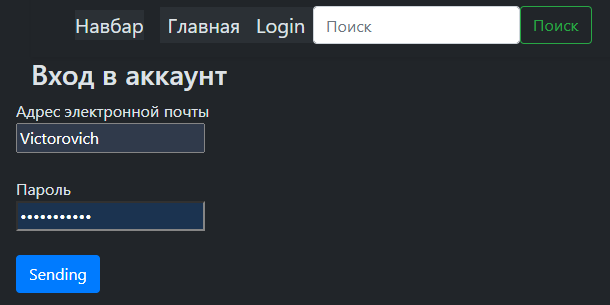
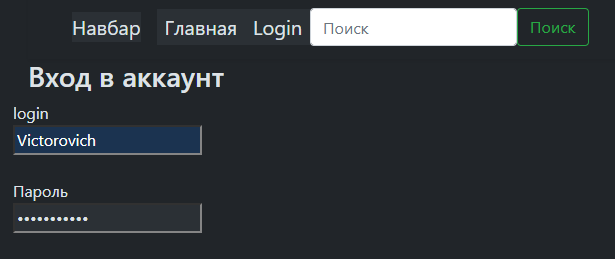
[dev]: hendler form to the egister and login, new tamplete and forms wath expression the regex

Changed region(s): [[0.0, 0.2162, 0.3738, 0.7722], [0.0934, 0.0, 0.9656, 0.1853], [0.0, 0.8031, 0.3426, 0.9884]]

diff --git a/ads/static/scripts/main-index-ca1406f76532cff5bc7e.js b/ads/static/scripts/main-index-ca1406f76532cff5bc7e.js
@@ -49,13 +49,23 @@ eval("__webpack_require__.r(__webpack_exports__);\n/* harmony export */ __webpac
 
 /***/ }),
 
+/***/ "./src/scripts/handlers/handlerFormUsers/handlerRegisterForm.ts":
+/*!**********************************************************************!*\
+  !*** ./src/scripts/handlers/handlerFormUsers/handlerRegisterForm.ts ***!
+  \**********************************************************************/
+/***/ ((__unused_webpack_module, __webpack_exports__, __webpack_require__) => {
+
+eval("__webpack_require__.r(__webpack_exports__);\n/* harmony export */ __webpack_require__.d(__webpack_exports__, {\n/* harmony export */   handlerUserForm: () => (/* binding */ handlerUserForm)\n/* harmony export */ });\n/**\r\n * src\\scripts\\handlers\\handlerFormUsers\\handlerRegisterForm.ts\r\n */\nconst URL_HOST_FOR_API = \"http://83.166.245.197\" || 0;\n\n/***\r\n * Function that handle user's forms. It is the registration form and login form.\r\n * @param: event: KeyboardEvent ('to the 'Enter'keydown')\r\n */\nasync function handlerUserForm(event) {\n  if (!event.key || event.key && event.key.toLowerCase() !== \"enter\") {\n    return;\n  }\n  ;\n  const pathname = location.pathname;\n  // GET DATA FROM FORM\n  const body_ = {};\n  // body_.method = \"GET\";\n  const currentTarget = event.currentTarget;\n  const formHtml = currentTarget.querySelector(\"form\");\n  const form = new FormData(formHtml);\n\n  // PREVENT DEFAULT\n  event.preventDefault();\n  event.stopPropagation();\n\n  // SEND DATA TO API\n  body_.method = \"POST\";\n  body_.body = form;\n  // LOGIN OR REGISTER USER\n  const pathnemr = pathname.includes(\"login\") ? '/api/v2/users/login_user/' : \"/api/v2/users/\";\n  // REGISTER USER\n  const url = new URL(pathnemr, URL_HOST_FOR_API);\n  try {\n    const response = await fetch(url, body_);\n    if (!response.ok || response.status > 201) {\n      console.warn(\"User form invalid: \".concat(response.statusText));\n      return;\n    }\n    // CHANGE LOCATION\n    if (pathname.includes(\"register\")) {\n      setTimeout(() => window.location.pathname = \"/users/login/\", 200);\n    }\n    ;\n  } catch (error) {\n    console.error(\"USER FORM ERROR: \", error.message);\n    throw new Error(\"USER FORM ERROR: \".concat(error));\n  }\n}\n;\n\n//# sourceURL=webpack://ads/./src/scripts/handlers/handlerFormUsers/handlerRegisterForm.ts?");
+
+/***/ }),
+
 /***/ "./src/scripts/handlers/handlerSingleAd/handleRequsetReceiveAd.ts":
 /*!************************************************************************!*\
   !*** ./src/scripts/handlers/handlerSingleAd/handleRequsetReceiveAd.ts ***!
   \************************************************************************/
 /***/ ((__unused_webpack_module, __webpack_exports__, __webpack_require__) => {
 
-eval("__webpack_require__.r(__webpack_exports__);\n/* harmony export */ __webpack_require__.d(__webpack_exports__, {\n/* harmony export */   asyncGetListenerEvent: () => (/* binding */ asyncGetListenerEvent),\n/* harmony export */   asyncHandlerOneAdPublic: () => (/* binding */ asyncHandlerOneAdPublic)\n/* harmony export */ });\n/**\r\n * src\\scripts\\handlers\\handlerSingleAd\\handleRequsetReceiveAd.ts\r\n */\n\nconst URL_HOST_FOR_API = \"http://83.166.245.197\" || 0;\nfunction handlerSubmitGetIdFroHTML(event) {\n  var _target$parentElement;\n  if (!(event.target instanceof HTMLElement)) {\n    return;\n  }\n  if (event.target.tagName.toLowerCase() !== \"button\") {\n    return;\n  }\n  event.stopPropagation();\n  event.preventDefault();\n  const target = event.target;\n  const liParantHtml = (_target$parentElement = target.parentElement) === null || _target$parentElement === void 0 || (_target$parentElement = _target$parentElement.parentElement) === null || _target$parentElement === void 0 ? void 0 : _target$parentElement.parentElement;\n  if ((liParantHtml === null || liParantHtml === void 0 ? void 0 : liParantHtml.tagName).toLowerCase() !== \"li\") {\n    console.error(\"The tag 'LI' is invalid!\");\n    return;\n  }\n  const getId = liParantHtml.hasAttribute('data-ad') ? liParantHtml.getAttribute('data-ad') : undefined;\n  if (!getId) {\n    console.error(\"The 'no id' is invalid!\");\n    return;\n  }\n  console.warn(\"THe ID of Ad is Ok.\");\n  return getId;\n}\n\n/**\r\n * This function is called when you click on the button 'submit' and get the index of the Ad.\\\r\n * Then, relocation to the page of the public Ad (http://< HOST >/ad/id/) .\r\n * @param event of click.\r\n * @returns  Promise<void>\r\n */\nasync function asyncHandlerOneAdPublic(event) {\n  // GET INDEX OF Ad FROM HTML-ELEMENT\n  const data = handlerSubmitGetIdFroHTML(event);\n  if (!data) {\n    console.warn(\"The index's data of Ad is invalid!\");\n    return;\n  }\n  window.location.href = \"\".concat(URL_HOST_FOR_API, \"/ad/\").concat(data, \"/\");\n}\n\n/**\r\n * Here, to the entrypoint accepting the 'instance' and 'className' or 'idName' (only one) of HTML-element. \\\r\n * It (html-element wich has the'className' or 'idName')\\\r\n * will receive 'instance' (a callback function), this function will be handle the events. \r\n * @param instanse: async callback c this a function that handle event 'click' by submit\r\n * @param className: string. Default value undefined. \r\n * @param idName : string. Default value undefined.\r\n * @returns void.\r\n */\nasync function asyncGetListenerEvent(instanse) {\n  let className = arguments.length > 1 && arguments[1] !== undefined ? arguments[1] : undefined;\n  let idName = arguments.length > 2 && arguments[2] !== undefined ? arguments[2] : undefined;\n  if (!className && idName) {\n    var _document$getElementB, _document$getElementB2;\n    (_document$getElementB = document.getElementById(idName)) === null || _document$getElementB === void 0 || _document$getElementB.removeEventListener(\"click\", instanse);\n    (_document$getElementB2 = document.getElementById(idName)) === null || _document$getElementB2 === void 0 || _document$getElementB2.addEventListener(\"click\", instanse);\n    return;\n  } else if (className && !idName) {\n    document.getElementsByClassName(className)[0].removeEventListener(\"click\", instanse);\n    document.getElementsByClassName(className)[0].addEventListener(\"click\", instanse);\n    return;\n  }\n  return;\n}\n\n//# sourceURL=webpack://ads/./src/scripts/handlers/handlerSingleAd/handleRequsetReceiveAd.ts?");
+eval("__webpack_require__.r(__webpack_exports__);\n/* harmony export */ __webpack_require__.d(__webpack_exports__, {\n/* harmony export */   asyncGetListenerEvent: () => (/* binding */ asyncGetListenerEvent),\n/* harmony export */   asyncHandlerOneAdPublic: () => (/* binding */ asyncHandlerOneAdPublic)\n/* harmony export */ });\n/**\r\n * src\\scripts\\handlers\\handlerSingleAd\\handleRequsetReceiveAd.ts\r\n */\n\nconst URL_HOST_FOR_API = \"http://83.166.245.197\" || 0;\nfunction handlerSubmitGetIdFroHTML(event) {\n  var _target$parentElement;\n  if (!(event.target instanceof HTMLElement)) {\n    return;\n  }\n  if (event.target.tagName.toLowerCase() !== \"button\") {\n    return;\n  }\n  event.stopPropagation();\n  event.preventDefault();\n  const target = event.target;\n  const liParantHtml = (_target$parentElement = target.parentElement) === null || _target$parentElement === void 0 || (_target$parentElement = _target$parentElement.parentElement) === null || _target$parentElement === void 0 ? void 0 : _target$parentElement.parentElement;\n  if ((liParantHtml === null || liParantHtml === void 0 ? void 0 : liParantHtml.tagName).toLowerCase() !== \"li\") {\n    console.error(\"The tag 'LI' is invalid!\");\n    return;\n  }\n  const getId = liParantHtml.hasAttribute('data-ad') ? liParantHtml.getAttribute('data-ad') : undefined;\n  if (!getId) {\n    console.error(\"The 'no id' is invalid!\");\n    return;\n  }\n  console.warn(\"THe ID of Ad is Ok.\");\n  return getId;\n}\n\n/**\r\n * This function is called when you click on the button 'submit' and get the index of the Ad.\\\r\n * Then, relocation to the page of the public Ad (http://< HOST >/ad/id/) .\r\n * @param event of click.\r\n * @returns  Promise<void>\r\n */\nasync function asyncHandlerOneAdPublic(event) {\n  // GET INDEX OF Ad FROM HTML-ELEMENT\n  const data = handlerSubmitGetIdFroHTML(event);\n  if (!data) {\n    console.warn(\"The index's data of Ad is invalid!\");\n    return;\n  }\n  window.location.href = \"\".concat(URL_HOST_FOR_API, \"/ad/\").concat(data, \"/\");\n}\n\n/**\r\n * Here, to the entrypoint accepting the 'instance' and 'className' or 'idName' (only one) of HTML-element. \\\r\n * It (html-element wich has the'className' or 'idName')\\\r\n * will receive 'instance' (a callback function), this function will be handle the events. \r\n * @param instanse: async callback c this a function that handle event 'click' by submit\r\n * @param className: string. Default value undefined. \r\n * @param idName : string. Default value undefined.\r\n * @returns void.\r\n */\nasync function asyncGetListenerEvent(eventNMame, instanse) {\n  let className = arguments.length > 2 && arguments[2] !== undefined ? arguments[2] : undefined;\n  let idName = arguments.length > 3 && arguments[3] !== undefined ? arguments[3] : undefined;\n  if (!className && idName) {\n    var _document$getElementB, _document$getElementB2;\n    (_document$getElementB = document.getElementById(idName)) === null || _document$getElementB === void 0 || _document$getElementB.removeEventListener(eventNMame, instanse);\n    (_document$getElementB2 = document.getElementById(idName)) === null || _document$getElementB2 === void 0 || _document$getElementB2.addEventListener(eventNMame, instanse);\n    return;\n  } else if (className && !idName) {\n    document.getElementsByClassName(className)[0].removeEventListener(eventNMame, instanse);\n    document.getElementsByClassName(className)[0].addEventListener(eventNMame, instanse);\n    return;\n  }\n  return;\n}\n\n//# sourceURL=webpack://ads/./src/scripts/handlers/handlerSingleAd/handleRequsetReceiveAd.ts?");
 
 /***/ }),
 
@@ -95,7 +105,7 @@ eval("__webpack_require__.r(__webpack_exports__);\n/* harmony export */ __webpac
   \******************************/
 /***/ ((__unused_webpack_module, __webpack_exports__, __webpack_require__) => {
 
-eval("__webpack_require__.r(__webpack_exports__);\n/* harmony import */ var _handlers_HandlerFormAd__WEBPACK_IMPORTED_MODULE_0__ = __webpack_require__(/*! ./handlers/HandlerFormAd */ \"./src/scripts/handlers/HandlerFormAd/index.ts\");\n/* harmony import */ var src_scripts_services_taskPublicAllAd__WEBPACK_IMPORTED_MODULE_1__ = __webpack_require__(/*! src/scripts/services/taskPublicAllAd */ \"./src/scripts/services/taskPublicAllAd.ts\");\n/* harmony import */ var src_scripts_handlers_handlerSingleAd_handleRequsetReceiveAd__WEBPACK_IMPORTED_MODULE_2__ = __webpack_require__(/*! src/scripts/handlers/handlerSingleAd/handleRequsetReceiveAd */ \"./src/scripts/handlers/handlerSingleAd/handleRequsetReceiveAd.ts\");\n/* harmony import */ var _services_taskPublicOnAd__WEBPACK_IMPORTED_MODULE_3__ = __webpack_require__(/*! ./services/taskPublicOnAd */ \"./src/scripts/services/taskPublicOnAd.ts\");\n/**\r\n * src\\scripts\\index.ts\r\n */\n\n\n\n\n// LISTENER CLICK BY FORM's SUBMIT BUTTOM\n\ndocument.removeEventListener(\"DOMContentLoaded\", () => {\n  (0,_handlers_HandlerFormAd__WEBPACK_IMPORTED_MODULE_0__.formPage)();\n  // publicAllAd - public all ads in HTML\n  Promise.all([(0,src_scripts_services_taskPublicAllAd__WEBPACK_IMPORTED_MODULE_1__[\"default\"])(), (0,src_scripts_handlers_handlerSingleAd_handleRequsetReceiveAd__WEBPACK_IMPORTED_MODULE_2__.asyncGetListenerEvent)(src_scripts_handlers_handlerSingleAd_handleRequsetReceiveAd__WEBPACK_IMPORTED_MODULE_2__.asyncHandlerOneAdPublic, undefined, undefined), (0,_services_taskPublicOnAd__WEBPACK_IMPORTED_MODULE_3__[\"default\"])()]);\n});\ndocument.addEventListener(\"DOMContentLoaded\", () => {\n  (0,_handlers_HandlerFormAd__WEBPACK_IMPORTED_MODULE_0__.formPage)();\n  // publicAllAd - public all ads in HTML\n  const idName = 'ads-collections';\n  Promise.all([(0,src_scripts_services_taskPublicAllAd__WEBPACK_IMPORTED_MODULE_1__[\"default\"])(), (0,src_scripts_handlers_handlerSingleAd_handleRequsetReceiveAd__WEBPACK_IMPORTED_MODULE_2__.asyncGetListenerEvent)(src_scripts_handlers_handlerSingleAd_handleRequsetReceiveAd__WEBPACK_IMPORTED_MODULE_2__.asyncHandlerOneAdPublic, undefined, idName), (0,_services_taskPublicOnAd__WEBPACK_IMPORTED_MODULE_3__[\"default\"])()]);\n});\n\n//# sourceURL=webpack://ads/./src/scripts/index.ts?");
+eval("__webpack_require__.r(__webpack_exports__);\n/* harmony import */ var _handlers_HandlerFormAd__WEBPACK_IMPORTED_MODULE_0__ = __webpack_require__(/*! ./handlers/HandlerFormAd */ \"./src/scripts/handlers/HandlerFormAd/index.ts\");\n/* harmony import */ var src_scripts_services_taskPublicAllAd__WEBPACK_IMPORTED_MODULE_1__ = __webpack_require__(/*! src/scripts/services/taskPublicAllAd */ \"./src/scripts/services/taskPublicAllAd.ts\");\n/* harmony import */ var src_scripts_handlers_handlerSingleAd_handleRequsetReceiveAd__WEBPACK_IMPORTED_MODULE_2__ = __webpack_require__(/*! src/scripts/handlers/handlerSingleAd/handleRequsetReceiveAd */ \"./src/scripts/handlers/handlerSingleAd/handleRequsetReceiveAd.ts\");\n/* harmony import */ var _services_taskPublicOnAd__WEBPACK_IMPORTED_MODULE_3__ = __webpack_require__(/*! ./services/taskPublicOnAd */ \"./src/scripts/services/taskPublicOnAd.ts\");\n/* harmony import */ var _handlers_handlerFormUsers_handlerRegisterForm__WEBPACK_IMPORTED_MODULE_4__ = __webpack_require__(/*! ./handlers/handlerFormUsers/handlerRegisterForm */ \"./src/scripts/handlers/handlerFormUsers/handlerRegisterForm.ts\");\n/**\r\n * src\\scripts\\index.ts\r\n */\n\n\n\n\n\nconst handlerCommmon = () => {\n  if (window.location.pathname.includes(\"register\")) {\n    Promise.all([(0,src_scripts_handlers_handlerSingleAd_handleRequsetReceiveAd__WEBPACK_IMPORTED_MODULE_2__.asyncGetListenerEvent)(\"keydown\", _handlers_handlerFormUsers_handlerRegisterForm__WEBPACK_IMPORTED_MODULE_4__.handlerUserForm, undefined, \"form-login\")]).then(resolve => {\n      console.log(resolve);\n    }).catch(err => {\n      console.log(err);\n    });\n  } else if (window.location.pathname.includes(\"login\")) {\n    (0,src_scripts_handlers_handlerSingleAd_handleRequsetReceiveAd__WEBPACK_IMPORTED_MODULE_2__.asyncGetListenerEvent)(\"keydown\", _handlers_handlerFormUsers_handlerRegisterForm__WEBPACK_IMPORTED_MODULE_4__.handlerUserForm, undefined, \"form-login\");\n  } else {\n    (0,_handlers_HandlerFormAd__WEBPACK_IMPORTED_MODULE_0__.formPage)();\n    // publicAllAd - public all ads in HTML\n    const idName = 'ads-collections';\n    Promise.all([(0,src_scripts_services_taskPublicAllAd__WEBPACK_IMPORTED_MODULE_1__[\"default\"])(), (0,src_scripts_handlers_handlerSingleAd_handleRequsetReceiveAd__WEBPACK_IMPORTED_MODULE_2__.asyncGetListenerEvent)(\"click\", src_scripts_handlers_handlerSingleAd_handleRequsetReceiveAd__WEBPACK_IMPORTED_MODULE_2__.asyncHandlerOneAdPublic, undefined, idName), (0,_services_taskPublicOnAd__WEBPACK_IMPORTED_MODULE_3__[\"default\"])()]);\n  }\n};\ndocument.removeEventListener(\"DOMContentLoaded\", handlerCommmon);\ndocument.addEventListener(\"DOMContentLoaded\", handlerCommmon);\n\n//# sourceURL=webpack://ads/./src/scripts/index.ts?");
 
 /***/ }),
 

diff --git a/ads/static/index.html b/ads/static/index.html
@@ -33,7 +33,7 @@
   <!--  <script src="https://cdn.jsdelivr.net/npm/bootstrap@4.4.1/dist/js/bootstrap.min.js"-->
   <!--          integrity="sha384-wfSDF2E50Y2D1uUdj0O3uMBJnjuUD4Ih7YwaYd1iqfktj0Uod8GCExl3Og8ifwB6" crossorigin="anonymous"></script>-->
 
-<script defer src="/scripts/main-index-b32741b27bc990d17455.js"></script><script defer src="/scripts/main-another-b32741b27bc990d17455.js"></script><script defer src="/scripts/main-runtime-b32741b27bc990d17455.js"></script><script defer src="/scripts/main-shared-b32741b27bc990d17455.js"></script><link href="/styles/index.css" rel="stylesheet"></head>
+<script defer src="/scripts/main-index-ca1406f76532cff5bc7e.js"></script><script defer src="/scripts/main-another-ca1406f76532cff5bc7e.js"></script><script defer src="/scripts/main-runtime-ca1406f76532cff5bc7e.js"></script><script defer src="/scripts/main-shared-ca1406f76532cff5bc7e.js"></script><link href="/styles/index.css" rel="stylesheet"></head>
 
 <body class="container" id="root">
   <header>

diff --git a/adboard/templates/register/index.html b/adboard/templates/register/index.html
@@ -2,15 +2,13 @@
   {% block forms_ads %}  {% endblock forms_ads %}
  {% block ads_collections %}{% endblock ads_collections %}
 {% block main %}
-    {% if field|length > 2 %}
-      <section id="form-register">
-    {% else %}
-      <section id="form-login">
-    {% endif %}
+
+  <section id="form-login">
+
     <div class="mb-3">
 
       <div class="title"><h3>{{title}}</h3></div>
-      <form class="ads-form row g-3 needs-validation" >
+      <form class="form row g-3 needs-validation" >
         {% csrf_token %}
         {% for field in form.form_user %}
           <div  class="mb-3">
@@ -22,7 +20,6 @@
            </div>
         {% endfor %}
 
-        <button type="submit" class="btn btn-primary">Sending</button>
       </form>
       </div>
   </section>

diff --git a/ads/static/styles/index.css b/ads/static/styles/index.css
@@ -261,11 +261,17 @@ div.hidden {
   width: 280px;
 }
 
-.ads-form {
+.ads-form,
+#form-register,
+#form-register label,
+#form-login,
+#form-login label {
   display: block;
 }
 
-.form .ads-form {
+.form .ads-form,
+#form-register,
+#form-login {
   width: 250px;
 }
 

diff --git a/adboard/views.py b/adboard/views.py
@@ -1,11 +1,14 @@
 import json
 import os
 from django.shortcuts import render
-from django.contrib.auth.forms import UserCreationForm, AuthenticationForm
+from rest_framework.decorators import action
+
 from adboard.forms.registr import UserRegister
+
 from adboard.forms.login import UserLogin
+from adboard.hasher import PassworHasher
 from adboard.serializers.register import UserSerializer
-from project.settings import BASE_DIR
+from project.settings import BASE_DIR, SECRET_KEY
 import logging
 from rest_framework import serializers, viewsets, status
 from rest_framework.response import Response
@@ -14,6 +17,23 @@ from logs import configure_logging
 
 configure_logging(logging.INFO)
 log = logging.getLogger(__name__)
+
+# class AlgorritmPBKDF2PasswordHasher(PBKDF2PasswordHasher):
+#     """
+#     A subclass of PBKDF2PasswordHasher that uses 100 times more iterations.
+#     <algorithm>$<iterations>$<salt>$<hash>
+#     https://docs.djangoproject.com/en/5.2/topics/auth/passwords/
+#     """
+#     def __init__(self):
+#         self.iterations = PBKDF2PasswordHasher.iterations * 100
+#     # algorithm = f"pbkdf2_sha256$100${}${SECRET_KEY}"
+#
+#     def encode_md5_hash(self, md5_hash, salt, iterations=None):
+#         return super().encode(md5_hash, salt, iterations)
+#
+#     def encode(self, password, salt, iterations=None):
+#         _, _, md5_hash = MD5PasswordHasher().encode(password, salt).split("$", 2)
+#         return self.encode_md5_hash(md5_hash, salt, iterations)
 
 
 def serializer_validate(serializer):
@@ -32,17 +52,17 @@ class UserViewSet(viewsets.ViewSet):
         log.info("REQUEST CREATE START: %s, %s", __name__, self.__class__.__name__)
         log.info("REQUEST METHOD: %s, DATA: %s", (request.method, request.data))
         if (request.method).lower() == "post":
+            """HASHING PASSWORD"""
+            old_password = request.data.get("password")
+            hash = PassworHasher()
+            salt = SECRET_KEY.replace("$", "/")
+            hash_password = hash.hasher(old_password, salt[:50])
+            """SERIALIZER DATA"""
             serializer = UserSerializer(data=request.data)
             try:
                 """VALIDATE DATA"""
                 serializer_validate(serializer)
-
-                # user = User(
-                #     username=request.data['username'],
-                #     email=request.data['email']
-                # )
-                # user.set_password(request.data['password'])
-                # user.save()
+                serializer.validated_data["password"] = hash_password
             except Exception as ex:
                 log.error("SERIALIZER DATA ERROR: %s", ex.args)
                 return Response(
@@ -63,12 +83,38 @@ class UserViewSet(viewsets.ViewSet):
                 )
         return Response({}, status=status.HTTP_400_BAD_REQUEST)
 
+    def retrieve(self, request, pk=None):
+        pass
 
-# Create your views here.
-# class RegistrationView():
+    @action(methods=["POST"], detail=False)
+    def login_user(self, request):
+        """HASHING PASSWORD"""
+        password = request.data.get("password")
+        login = request.data.get("username")
+        hash = PassworHasher()
+        salt = SECRET_KEY.replace("$", "/")
+        hash_password = hash.hasher(password, salt[:50])
+        try:
+            """CHECK EXISTS OF USER"""
+            answer = User.objects.filter(username=login, password=hash_password)
+            if len(list(answer)) == 0:
+                log.error("USER NOT FOUNDED")
+                Response(
+                    json.dumps({"data": "User not founded"}),
+                    status=status.HTTP_401_UNAUTHORIZED,
+                )
+            """LOGIN USER"""
+            log.error("USER FOUND")
+            return Response(json.dumps({"data": "User Ok"}), status=status.HTTP_200_OK)
+        except Exception as ex:
+            log.error("USER ERROR: %s", ex.args)
+            return Response(
+                json.dumps({"detail": ex.args}),
+                status=status.HTTP_500_INTERNAL_SERVER_ERROR,
+            )
 
 
-def registration_view(request):
+def user_view(request):
     # form_reg =UserRegister()
     form = UserLogin()
     # form = AuthenticationForm()

diff --git a/adboard/forms/login.py b/adboard/forms/login.py
@@ -7,13 +7,27 @@ from django.core import validators as valid
 
 from django.utils.translation import gettext_lazy as _
 
+
 class UserLogin(forms.Form):
-    email = forms.EmailField(
-        label=_("Email"),
-        max_length=50,
+    username = forms.CharField(
+        label=_("login"),
+        help_text=_("Enter your login"),
+        min_length=3,
+        max_length=30,
         validators=[
-            valid.MaxLengthValidator(50, _("Name should be less than 30 characters")),
-            valid.EmailValidator(message=_("Enter valid email")),
+            valid.MinLengthValidator(
+                3, message=_("Name should be at least 3 characters")
+            ),
+            valid.MaxLengthValidator(
+                30, _("Name should be less than 30  or 30 characters")
+            ),
+            valid.RegexValidator(
+                regex="(^[a-zA-Z][\wa-zA_Z]+)",
+                message=_(
+                    "Name should contain only characters\
+from a-z and A-Z and digits"
+                ),
+            ),
         ],
     )
     password = forms.CharField(

diff --git a/adboard/hasher.py b/adboard/hasher.py
@@ -1,0 +1,22 @@
+from django.contrib.auth.hashers import (
+    mask_hash,
+    make_password,
+    check_password,
+    PBKDF2PasswordHasher,
+)
+
+
+class PassworHasher(PBKDF2PasswordHasher):
+    """
+    <algorithm>$<iterations>$<salt>$<hash>
+    https://docs.djangoproject.com/en/5.2/topics/auth/passwords/
+    """
+
+    def hasher(self, password, salt_, iterations=None):
+        hashed_password = make_password(password, salt=salt_)
+        # mask_password_chash = mask_hash(hashed_password)
+        return hashed_password
+
+    # def hasher_check(self, password, salt, hashed_password):
+    #     result = check_password(password, hashed_password)
+    #     return result

diff --git a/project/settings.py b/project/settings.py
@@ -122,7 +122,19 @@ AUTH_PASSWORD_VALIDATORS = [
     },
 ]
 
+# hash passwords
+# https://docs.djangoproject.com/en/5.2/topics/auth/passwords/
+PASSWORD_HASHERS = [
+    "django.contrib.auth.hashers.PBKDF2PasswordHasher",
+    "django.contrib.auth.hashers.PBKDF2SHA1PasswordHasher",
+    "django.contrib.auth.hashers.Argon2PasswordHasher",
+    "django.contrib.auth.hashers.BCryptSHA256PasswordHasher",
+    "django.contrib.auth.hashers.BCryptPasswordHasher",
+    "django.contrib.auth.hashers.ScryptPasswordHasher",
+    "django.contrib.auth.hashers.MD5PasswordHasher",
+]
 
+PBKDF2_ITERATIONS = 720000
 # Internationalization
 # https://docs.djangoproject.com/en/4.2/topics/i18n/
 

diff --git a/adboard/urls.py b/adboard/urls.py
@@ -6,19 +6,19 @@ from django.contrib.auth.forms import UserCreationForm
 from django.urls import path, include
 from rest_framework.routers import DefaultRouter
 
-from adboard.views import UserViewSet, registration_view
+from adboard.views import UserViewSet, user_view
 
 router = DefaultRouter()
 router.register("users", UserViewSet, basename="users")
 
 urlpatterns = [
-    path("", registration_view, name="register_page"),
+    path("", user_view, name="register_page"),
     path(
         "register/",
-        registration_view,
+        user_view,
     ),
     path(
         "login/",
-        registration_view,
+        user_view,
     ),
 ]
